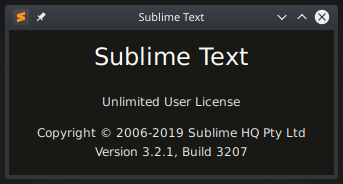
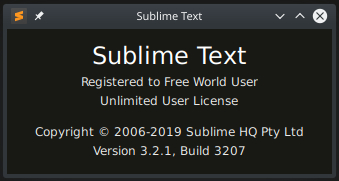
Update README.md

diff --git a/sublime.md b/sublime.md
@@ -11,7 +11,7 @@ permalink: sublime/
 	</b></p>
 </center>
 
-#### License key required: NO
+#### License key required: YES (License key in patch, you can enter your name!)
 
 ---
 
@@ -21,15 +21,11 @@ permalink: sublime/
 ## [Detailed explanation]()
 
 
-**Automatic re-registration is triggered by the "About Sublime Text" in the program menu.**
+**The patch will show the license key!**
 
 ```
-If the registration is valid, then the window of the program
-"Preferences -> Settings" opens in a new window, if not, then
-you need to call the window "About Sublime Text" from program
-menu and the registration status of the program will be resumed.
-
-Enough to do one time.
+After the patch and enter the license key, the program is fully functional.
+Instead of "Free World User" you can enter your name or any text.
 ```
 
 ![BIG](images/3207.jpg)
@@ -59,7 +55,8 @@ Enough to do one time.
 
 - ```$ sudo chmod +x sublime_patch.sh```
 - ```$ sudo ./sublime_patch.sh```
-  
+- Copy license key from console (can be copied with the mouse)
+
 ---
 
 #### [Second Step:]()
@@ -116,7 +113,14 @@ exit 0
 
 ---
 
-Run Sublime Text & appreciate the magic ^^
+#### [Fourth step:]()
+
+- Start Sublime Text 3 program
+- Paste License key in registration window - **"Help"->"Enter License"**
+
+---
+
+Restart Sublime Text & appreciate the magic ^^
 
 ## [Discussion and thanks here](https://gist.github.com/cipherhater/4e75d4e4551db171de03e9618456a7ea)
 

diff --git a/README.md b/README.md
@@ -7,7 +7,10 @@
 	</b></p>
 </center>
 
-#### License key required: NO
+#### Sublime Text 3 license key required: YES (License key in patch, you can enter your name!)
+
+#### Sublime Merge license key required: NO
+
 
 ![BIG](images/big.jpg)
 
